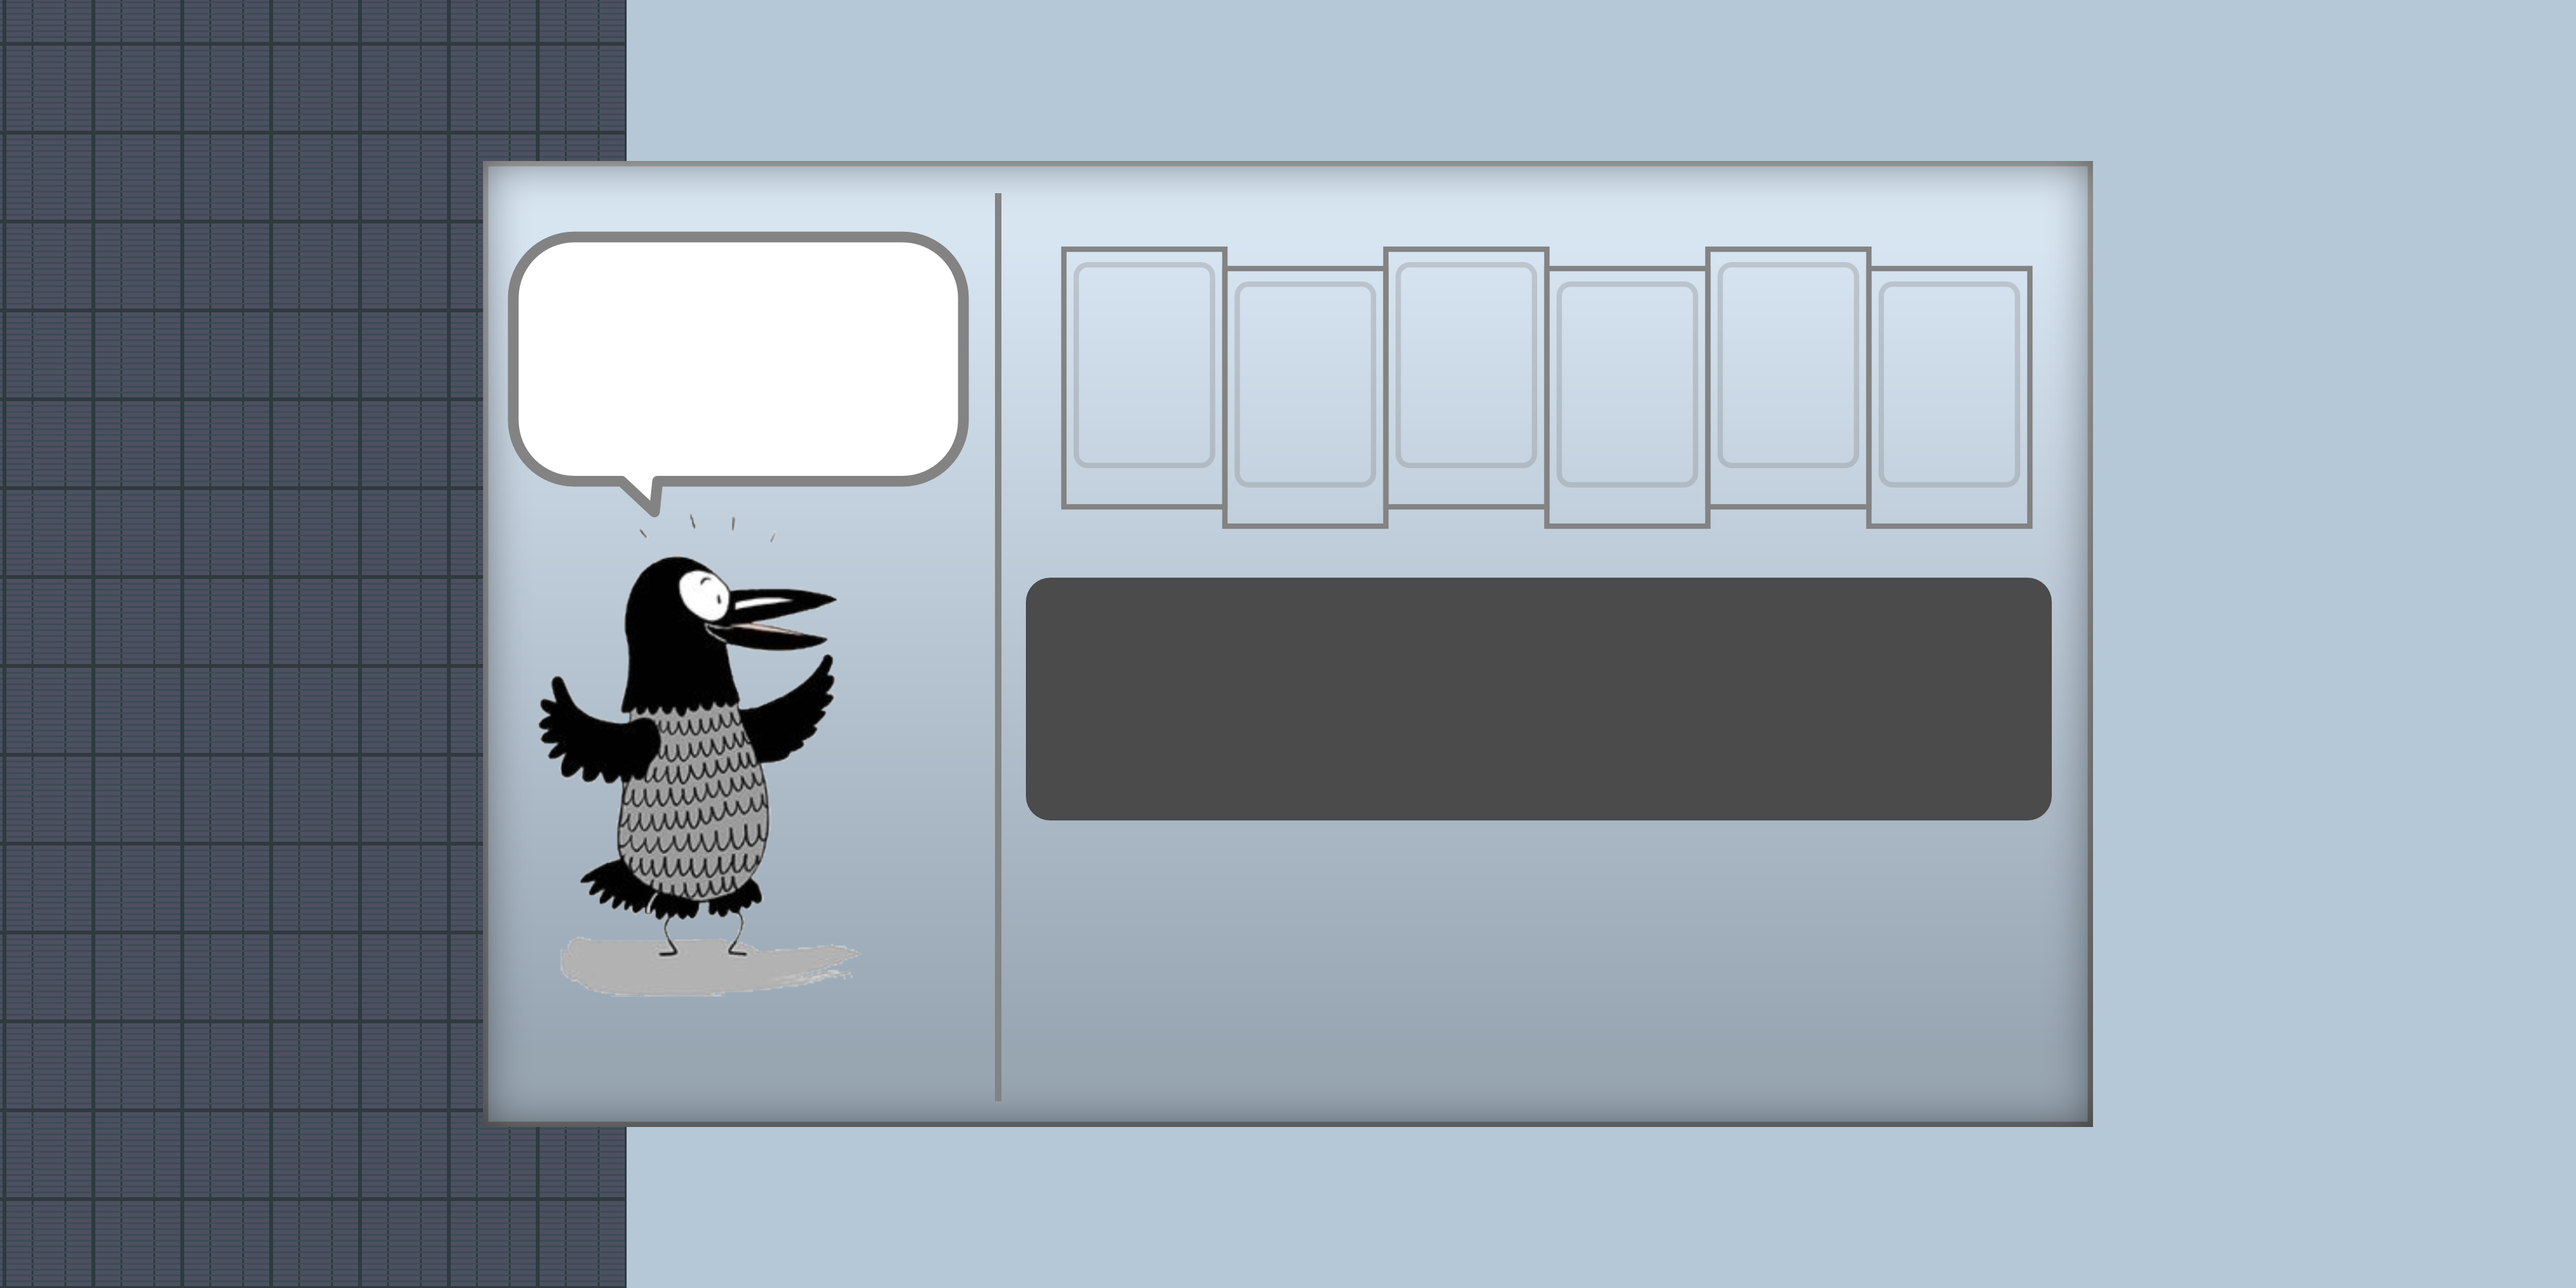
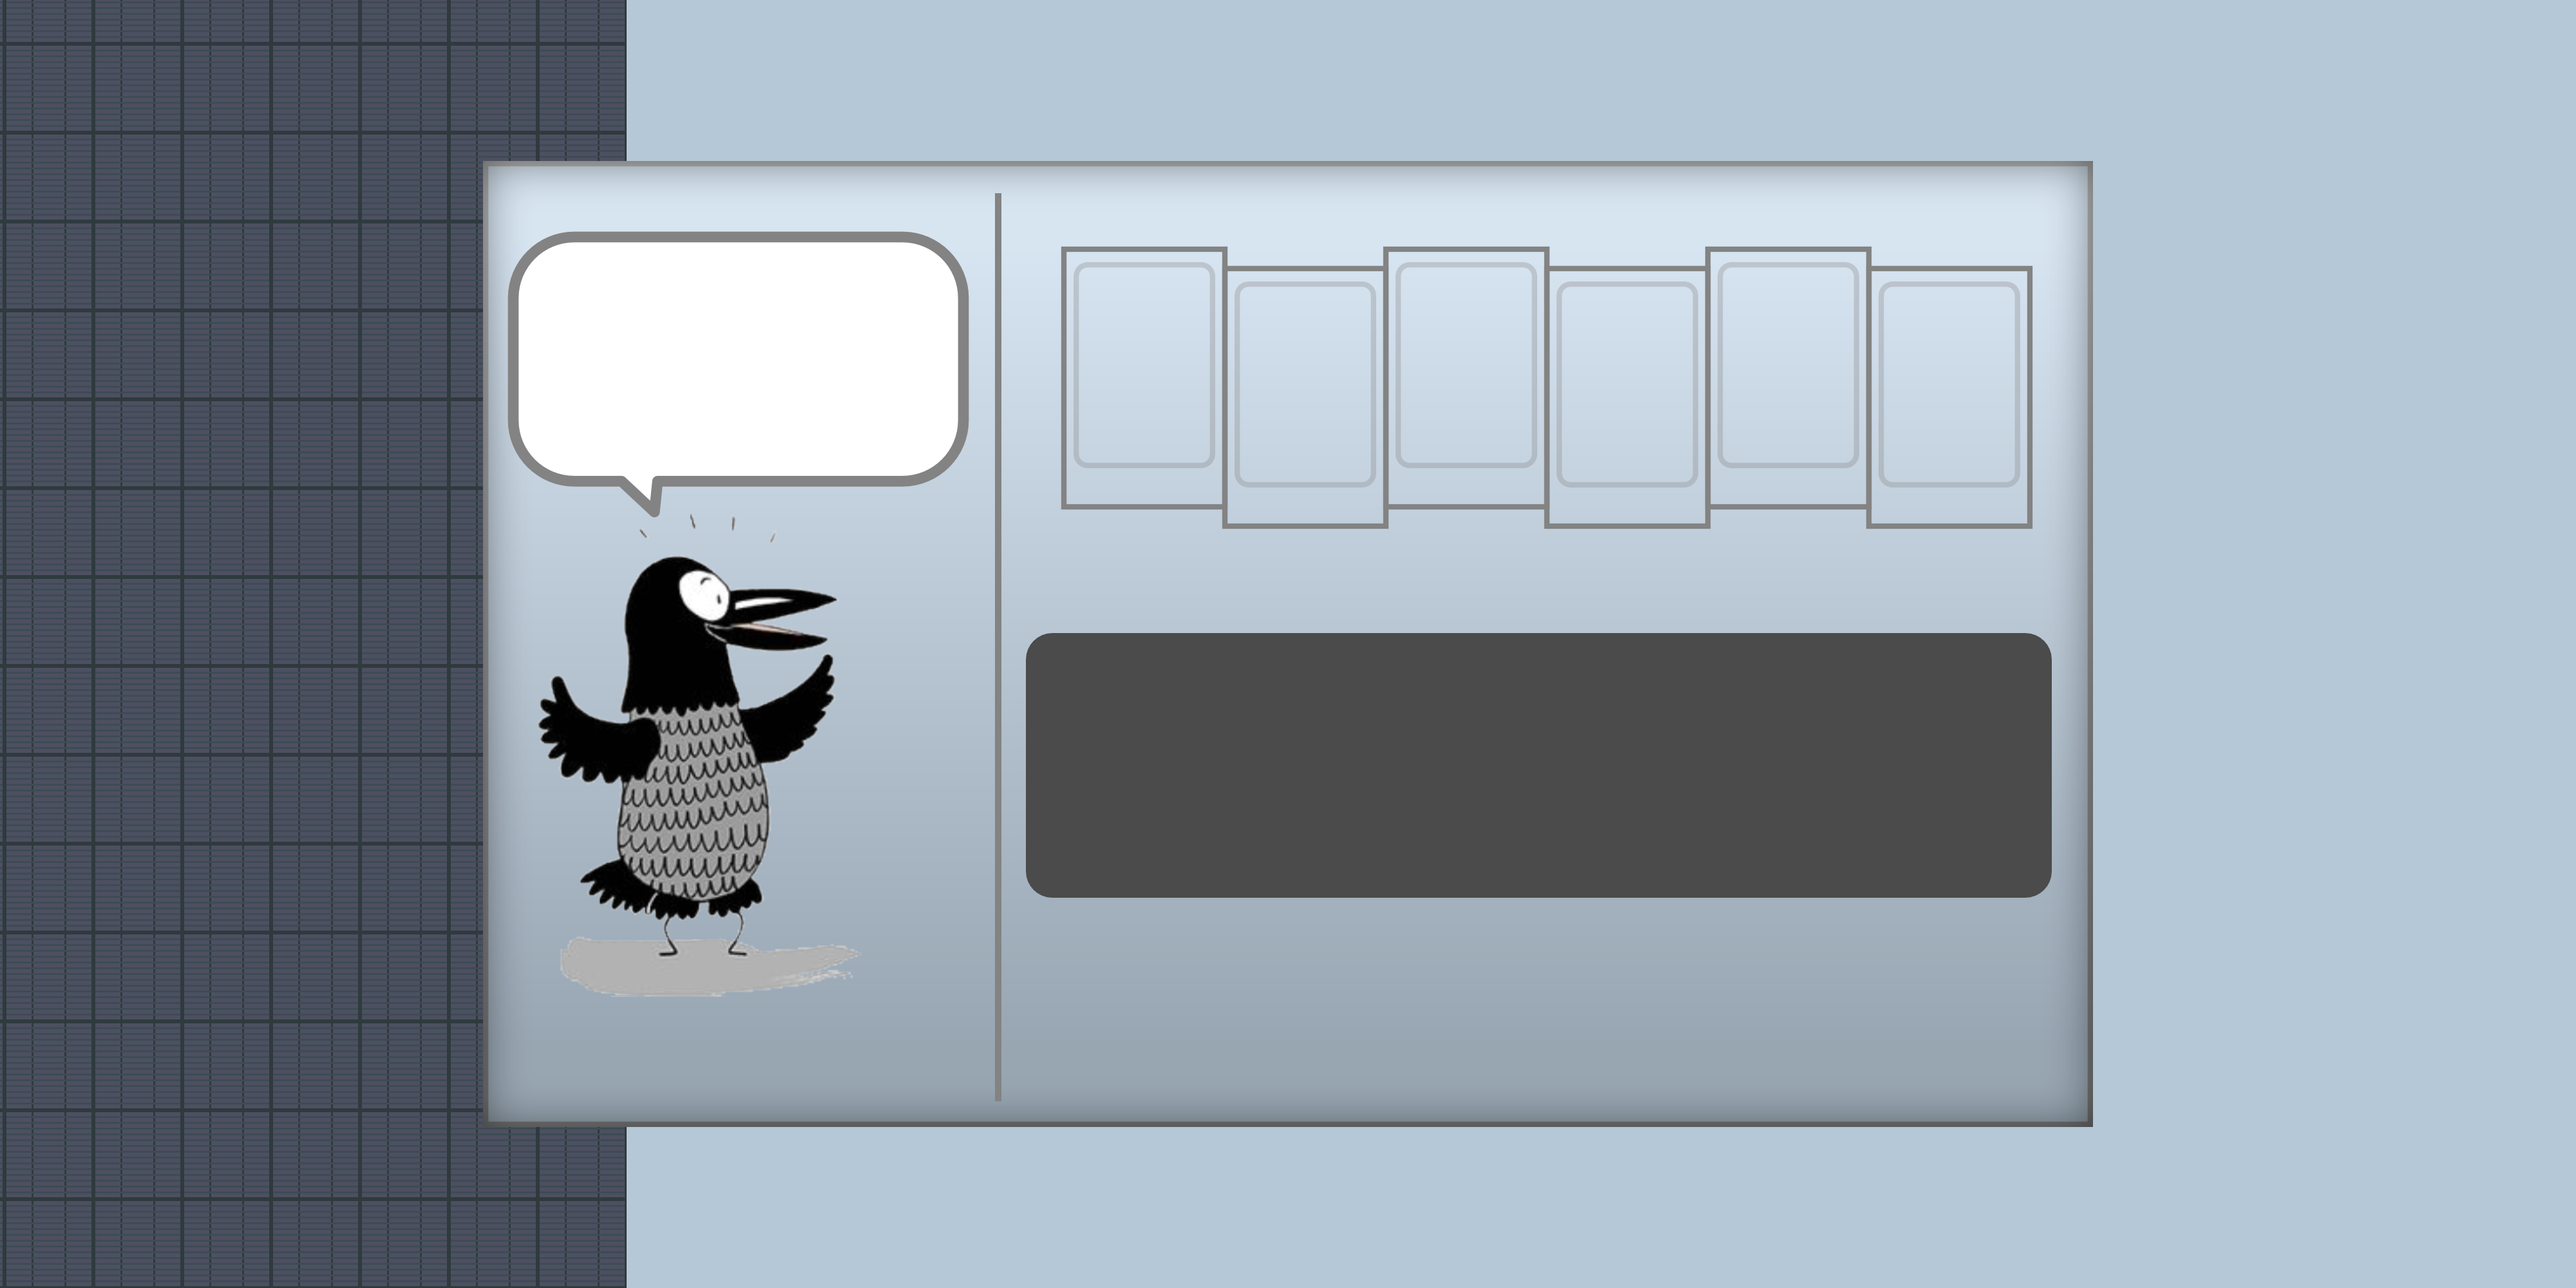
strength menu progress..

Changed region(s): [[0.375, 0.62, 0.8125, 0.713], [0.375, 0.434, 0.8125, 0.496]]

diff --git a/strengthMenu.py b/strengthMenu.py
@@ -2,6 +2,7 @@ from kivy.uix.screenmanager import Screen
 from kivy.uix.image import Image
 from kivy.uix.behaviors import ButtonBehavior
 from kivy.properties import NumericProperty, ListProperty
+from kivy.animation import Animation
 import strengthCard
 from spriteSheet import SpriteSheet
 
@@ -9,8 +10,8 @@ class DeckButton(ButtonBehavior, Image):
     index = NumericProperty(0)
 
 class StrengthMenu(Screen):
-    decks = ListProperty()
     inspectPile = NumericProperty(-1)
+    decks = ListProperty()
     
     def on_kv_post(self, _):
         self.decks = []
@@ -18,19 +19,49 @@ class StrengthMenu(Screen):
         for i in range(26):
             if i == 0 or i == 5 or i == 10 or i == 14 or i == 17 or i == 21:
                 self.decks.append([])
-            self.decks[-1].append(f"images/cards/card{i}.png")
-        for i in range(6):
-            deck = self.ids.get(f"deck{i}")
-            if deck:
-                deck.index = i
-                deck.source = f"images/card_pile.png"
-
+            self.decks[-1].append(i)
+            #self.decks[-1].append(f"images/cards/card{i}.png")
+            
     def selectDeck(self, i):
-        print("selected: " + str(i))
+        if self.inspectPile != -1:
+            self.restoreDeck(self.inspectPile)
+            self.clearCards()
         if self.inspectPile == i:
             self.inspectPile = -1
             self.ids.cards_rv.data = []
             return
         self.inspectPile = i
-        self.ids.cards_rv.data = [{"source": c} for c in self.decks[i]]
+        self.ids.cards_rv.data = [{"source": f"images/cards/card{c}.png"} for c in self.decks[i]]
+        self.openDeck(i)
+
+    def deckAt(self,i):
+        return self.ids.get(f"deck{i}")
+    
+    def restoreDeck(self, i):
+        b = self.deckAt(i)
+        if b:
+            b.opacity = 1
+
+    def clearCards(self):
+        view = self.ids.cards_rv
+        cards = self.decks[self.inspectPile]
+        for c in cards:
+            view.remove_widget(c)
+
+    def openDeck(self, i):
+        d = self.deckAt(i)
+        if not d:
+            return
+        d.opacity = 0
+        rv = self.ids.cards_rv
+        layout = rv.children[0]
+        items = layout.children
+        #for w in items:
+            #orig_size = w.size
+            #w.size = (w.size[0]*0.2,w.size[1]*0.2)
+            #Animation(size=orig_size, duration=2, t='out_cubic').start(w)
+        orig_spc = layout.spacing
+        layout.spacing = -6*layout.spacing
+        spcAnim = Animation(spacing=orig_spc, duration=0.3, t='out_cubic').start(layout)
+            
 

diff --git a/strengthCard.py b/strengthCard.py
@@ -1,6 +1,7 @@
 from kivy.uix.widget import Widget
+from kivy.core.image import Image
 import const
-import spriteSheet
+from spriteSheet import SpriteSheet
 import playerClass
 import math
 
@@ -17,10 +18,9 @@ class StrengthCard(Widget):
         self.timerMax = 8*60     # timer duration
         self.cooldownMax = 30*60  # cooldown duration
         self.level = 1          # Level of the card
-        self.cardSprite = spriteSheet.SpriteSheet('images/strength_sheet.png')
-        self.image = self.cardSprite.getImage(self.imageNum,250,350,const.scale/2).copy()
-        self.xpSprite = spriteSheet.SpriteSheet('images/xp_sheet.png')
-        self.xpImage = self.xpSprite.getImage(round((self.level*10)%10),178,18,const.scale/2)
+        self.image = Image(f"images/cards/card{self.imageNum}").texture
+        self.xpSprite = SpriteSheet('images/xp_sheet.png', (178, 18))
+        self.xpImage = self.xpSprite.getImage(round((self.level*10)%10))
         self.ready = False
 
     # Activates the card and starts the active timer if the card is not on cooldown
@@ -300,18 +300,11 @@ class KindnessCard(StrengthCard):
 class LoveCard(StrengthCard):
     def __init__(self):
         super().__init__(11)
-        self.cardSprite = spriteSheet.SpriteSheet('images/love_jetpack.png')
-        self.image = self.cardSprite.getImage(0,250,350,const.scale/2).copy()
+        self.cardSprite = SpriteSheet('images/love_jetpack.png', (250,350))
+        self.image = self.cardSprite.getImage(0)
         self.batteryReset = 1
         self.battery = self.batteryReset
         self.timerMax = 1*60
-
-    def blitXP(self, n=0):
-        self.image = self.cardSprite.getImage(n,250,350,const.scale/2).copy()
-        self.xpImage = self.xpSprite.getImage(round((self.level*10)%10),178,18,const.scale/2)
-        self.lvlText.setText(f"-{round(self.level)}-")
-        self.image.blit(self.xpImage,(18,150))
-        self.image.blit(self.lvlText.surfaces[0], (52,138))
 
     def tryActivate(self, floor):
         leveledUp = False
